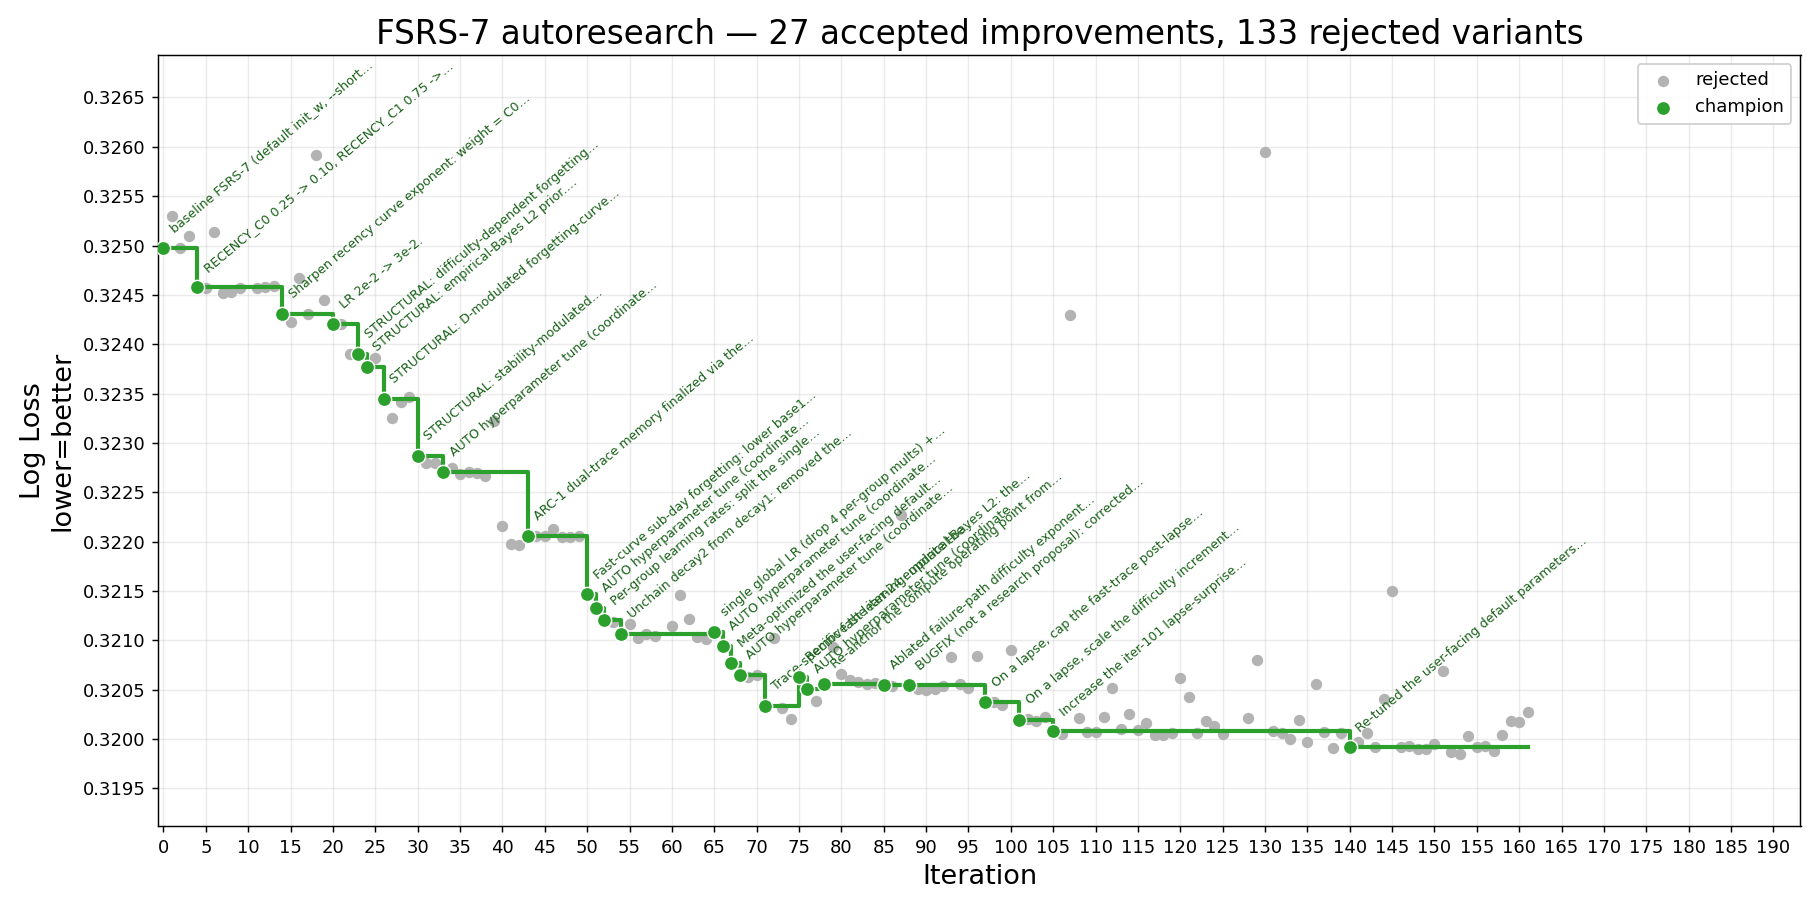
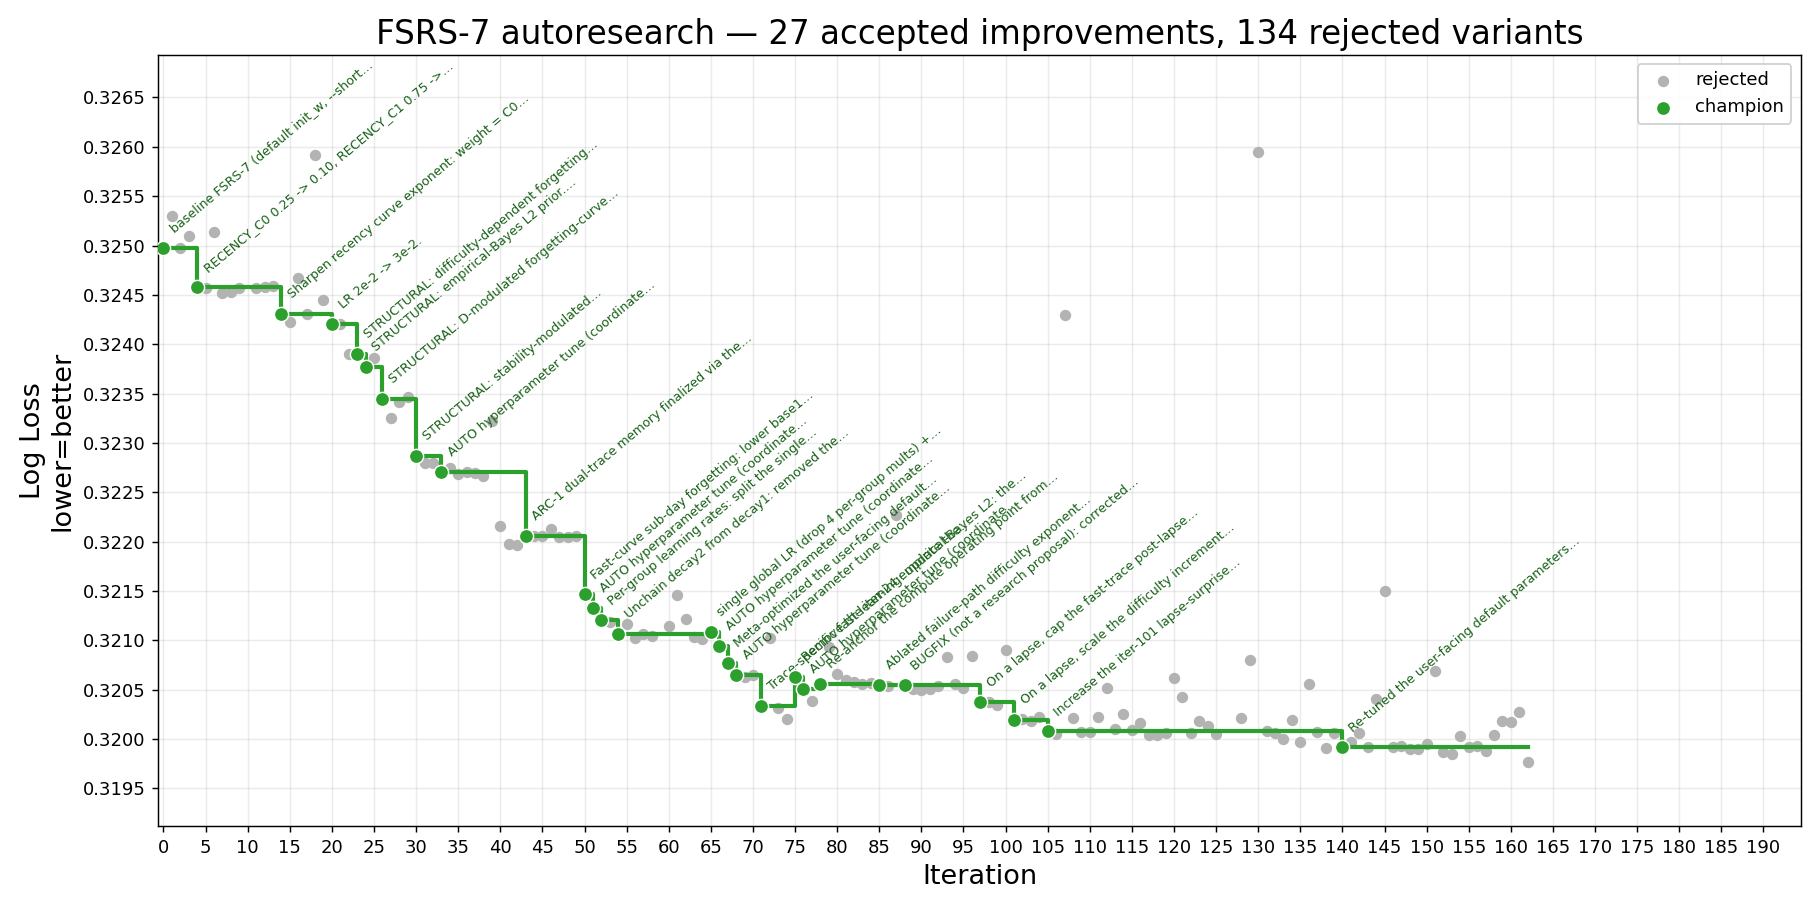
iter-162 (rejected): 4 trainable rating-map params (dd[r])
Replace the fixed linear (rating-3) D-update map with 4 trainable per-rating
coefficients dd[34..37], delta_d = -next_d_mult * dd[r]. by_user 0.31991476 ->
0.31976384 (IMPROVED +1.51e-4, best of the D campaign) but threshold is 0.0008
for 4 new params -> reject. Learned dd medians {-1.93,-1.01,0.006,1.00} ~=
linear defaults {-2,-1,0,1}: the gain is per-user variance (hard/good saturate
their windows), not a population shape error. Reverted; champion unchanged at
iter-140.

diff --git a/result/history.md b/result/history.md
@@ -1,6 +1,6 @@
 # FSRS-7 autoresearch — iteration history
 
-_161 record(s). Generated from `history.jsonl` — do not edit by hand._
+_162 record(s). Generated from `history.jsonl` — do not edit by hand._
 
 | # | Time (UTC) | Thresh. | LL before | LL after | Δ LL | Cx before | Cx after | Δ Cx % | Status | Summary |
 |--:|---|---:|---:|---:|---:|---:|---:|---:|---|---|
@@ -165,3 +165,4 @@ _161 record(s). Generated from `history.jsonl` — do not edit by hand._
 | 159 | 2026-06-06T15:56:56 | 0.0001 | 0.31991 | 0.32018 | -0.00027 | 16,932 | 16,931 | -0.01% | rejected | Flip the sign of weight1's s_short exponent (remove the minus): weight1 = base_weight1 * s_short^(+power1). |
 | 160 | 2026-06-06T16:00:12 | 0.0001 | 0.31991 | 0.32017 | -0.00026 | 16,932 | 16,932 | +0.00% | rejected | Key weight1 off s_long instead of s_short: weight1 = base_weight1 * s_long^(-power1). |
 | 161 | 2026-06-06T16:06:30 | 0.0001 | 0.31991 | 0.32028 | -0.00036 | 16,932 | 16,990 | +0.34% | rejected | Direction-aware D-damping: damp D-increases by (10-d)/9, D-decreases by (d-1)/9 (was (10-d)/9 for both). |
+| 162 | 2026-06-06T16:24:15 | 0.0008 | 0.31991 | 0.31976 | +0.00015 | 16,932 | 17,116 | +1.09% | rejected | Make the rating->number map 4 trainable params dd[r] (w[34..37]) replacing the fixed linear (rating-3); delta_d = -next_d_mult * dd[r]. |
